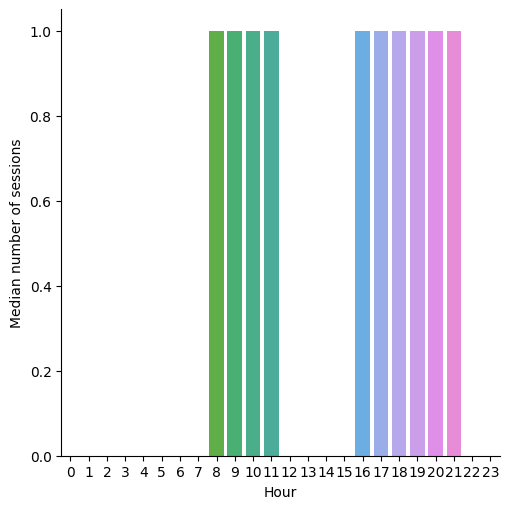
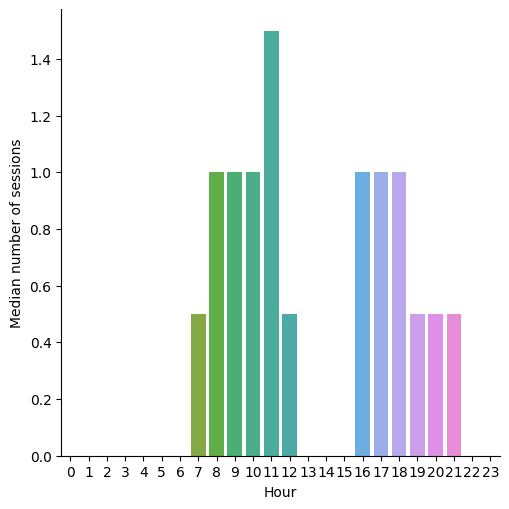
"Stats generated 2021-05-28"

diff --git a/all/2021/5/days/27/index.html b/all/2021/5/days/27/index.html
@@ -1,0 +1,29 @@
+<!DOCTYPE html>
+<html>
+  <head>
+    <meta charset="utf-8"/>
+    <title>27 May 2021</title>
+    <link rel="stylesheet" href="../../../../../styles.css"/>
+  </head>
+  <body>
+    <div id="container">
+      <nav>
+        <ul>
+          
+            <li><a href="../../">May 2021</a></li>
+            <li class="separator"></li>
+          
+          
+        </ul>
+      </nav>
+      <main>
+        <h1>27 May 2021</h1>
+        
+          <h2>Number of sessions per hour</h2>
+          <img src="sessions.png" alt="Number of sessions per hour"/>
+        
+        
+      </main>
+    </div>
+  </body>
+</html>

diff --git a/all/2021/index.html b/all/2021/index.html
@@ -93,9 +93,9 @@
                   
                     <td>5.0</td>
                   
-                    <td>122.0</td>
+                    <td>128.0</td>
                   
-                    <td>86.54138139166666</td>
+                    <td>85.25901557499999</td>
                   
                 </tr>
               

diff --git a/all/2021/5/index.html b/all/2021/5/index.html
@@ -154,6 +154,10 @@
               <li><a href="days/26/">26</a></li>
             
           
+            
+              <li><a href="days/27/">27</a></li>
+            
+          
         </ul>
       </nav>
       <main>
